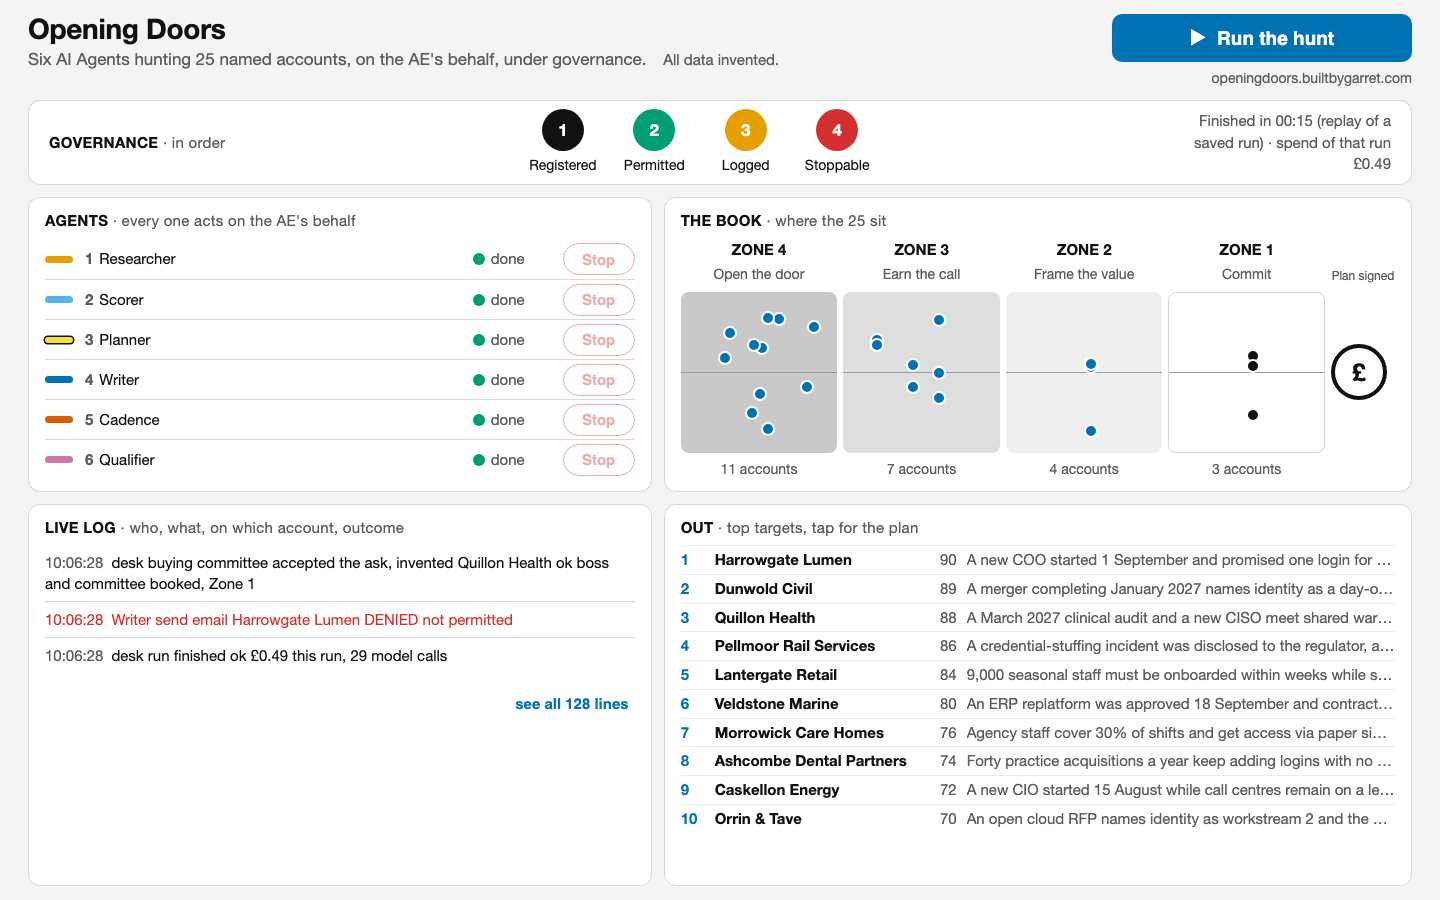
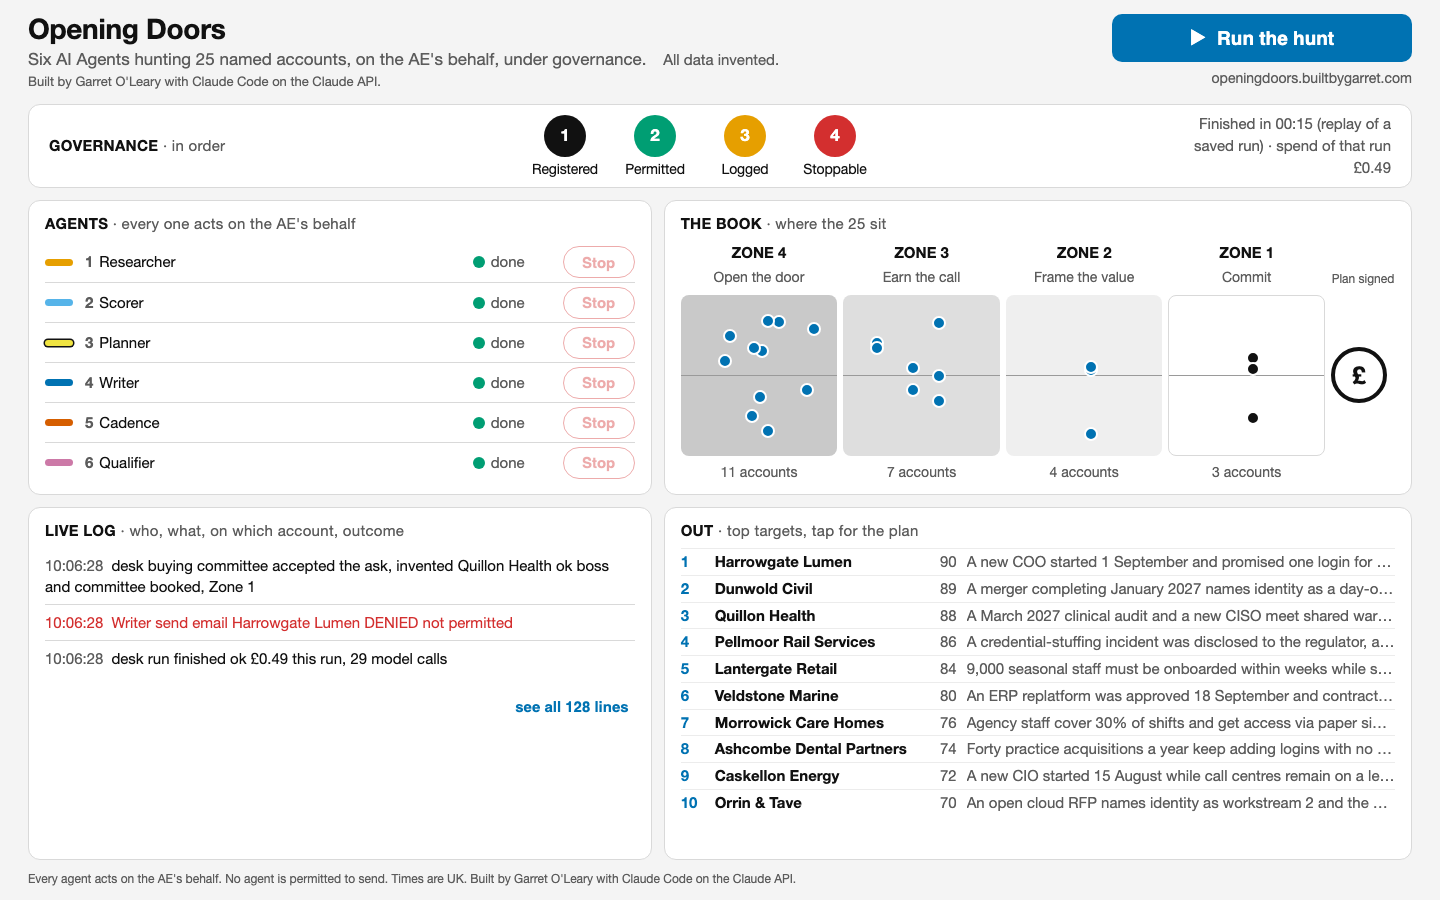
Phone view, governance fits, tiles equal, credit line

diff --git a/web/index.html b/web/index.html
@@ -17,7 +17,8 @@
   main { max-width: 680px; margin: 0 auto; padding: 24px 16px 40px; }
   h1 { font-size: 34px; line-height: 1.1; margin: 0 0 12px; letter-spacing: -0.01em; }
   .desc { margin: 0 0 6px; color: var(--muted); }
-  .notice { margin: 0 0 20px; color: var(--muted); font-size: 15px; }
+  .notice { margin: 0 0 4px; color: var(--muted); font-size: 15px; }
+  .credit { margin: 0 0 20px; color: var(--muted); font-size: 13px; }
   button.run { display: block; width: 100%; min-height: 56px; border: 0; border-radius: 10px; background: var(--blue); color: #fff;
     font: 600 21px/1 Inter, -apple-system, sans-serif; cursor: pointer; }
   button.run:disabled { opacity: .55; cursor: default; }
@@ -25,16 +26,16 @@
   .card { background: var(--card); border: 1px solid var(--line); border-radius: 12px; padding: 16px; margin: 0 0 16px; }
   .card h2 { font-size: 15px; letter-spacing: .02em; margin: 0 0 14px; color: var(--ink); }
   .card h2 span { font-weight: 400; color: var(--muted); }
-  .lights { display: grid; grid-template-columns: repeat(4, 1fr); gap: 8px; }
-  .light { text-align: center; }
-  .light .dot { width: 56px; height: 56px; margin: 0 auto 8px; border-radius: 50%; display: flex; align-items: center; justify-content: center;
-    font-weight: 600; font-size: 19px; color: var(--muted); background: #fff; border: 2px solid var(--line); }
+  .lights { display: grid; grid-template-columns: repeat(4, minmax(0, 1fr)); gap: 6px; }
+  .light { text-align: center; min-width: 0; }
+  .light .dot { width: 46px; height: 46px; margin: 0 auto 6px; border-radius: 50%; display: flex; align-items: center; justify-content: center;
+    font-weight: 600; font-size: 17px; color: var(--muted); background: #fff; border: 2px solid var(--line); }
   .light.on .dot { color: #fff; border-color: transparent; }
   .light.on.black .dot { background: var(--black); }
   .light.on.green .dot { background: var(--green); }
   .light.on.amber .dot { background: var(--amber); }
   .light.on.red .dot { background: var(--red); }
-  .light .label { font-size: 15px; }
+  .light .label { font-size: 13px; line-height: 1.2; white-space: nowrap; overflow: hidden; text-overflow: clip; letter-spacing: -0.01em; }
   .agents { list-style: none; margin: 0; padding: 0; }
   .agents li { display: grid; grid-template-columns: 34px minmax(0, 1fr) 84px 72px; align-items: center; gap: 6px; min-height: 52px; border-top: 1px solid var(--line); }
   .agents li > * { min-width: 0; }
@@ -56,9 +57,9 @@
   .zones { display: grid; grid-template-columns: repeat(4, minmax(0, 1fr)); gap: 6px; }
   .zone { border-radius: 8px; padding: 8px 3px 6px; text-align: center; border: 1px solid var(--line); min-height: 44px; min-width: 0; }
   .zone.z4 { background: #c9c9c9; } .zone.z3 { background: #dedede; } .zone.z2 { background: #efefef; } .zone.z1 { background: #fff; }
-  .zone .zn { font-size: 15px; font-weight: 600; }
+  .zone .zn { font-size: 14px; font-weight: 600; white-space: nowrap; }
   .zone .zc { font-size: 26px; font-weight: 600; line-height: 1.2; margin: 2px 0; font-variant-numeric: tabular-nums; }
-  .zone .zl { font-size: 15px; color: var(--muted); line-height: 1.15; }
+  .zone .zl { font-size: 13px; color: var(--muted); line-height: 1.15; }
   .out { list-style: none; margin: 0; padding: 0; }
   .out li { border-top: 1px solid var(--line); }
   .out li:first-child { border-top: 0; }
@@ -100,21 +101,24 @@
     html, body { height: 100%; }
     body { overflow: hidden; }
     main { max-width: none; height: 100vh; padding: 14px 28px; display: grid; gap: 12px;
-      grid-template-columns: 1fr 1.2fr; grid-template-rows: auto auto auto minmax(0, 1fr);
-      grid-template-areas: "head head" "gov gov" "agents book" "log out"; }
+      grid-template-columns: 1fr 1.2fr; grid-template-rows: auto auto auto minmax(0, 1fr) auto;
+      grid-template-areas: "head head" "gov gov" "agents book" "log out" "foot foot"; }
+    footer { grid-area: foot; display: block; margin: 0; font-size: 12px; line-height: 1.2; }
     .desktop-only { display: block; }
     .head { grid-area: head; display: flex; justify-content: space-between; align-items: flex-start; gap: 24px; }
     .head h1 { font-size: 28px; margin: 0 0 2px; }
     button.run { min-height: 48px; font-size: 19px; }
     .head .desc, .head .notice { margin: 0; display: inline; }
     .head .notice { margin-left: 12px; }
+    .head .credit { margin: 2px 0 0; display: block; }
     .runbox { text-align: right; flex: 0 0 300px; }
     button.run { width: 300px; }
     .runbox .runline { display: none; }          /* on desktop the timer and spend live in the governance strip */
     .address { font-size: 14px; color: var(--muted); margin-top: 6px; }
     .card.gov { grid-area: gov; display: grid; grid-template-columns: 180px 1fr 220px; align-items: center; margin: 0; padding: 8px 20px; }
     .card.gov .light .dot { width: 42px; height: 42px; font-size: 17px; margin-bottom: 4px; }
-    .card.gov .light .label { font-size: 14px; }
+    .card.gov .light .label { font-size: 14px; white-space: nowrap; }
+    .card.gov .lights { gap: 24px; max-width: 560px; margin: 0 auto; }
     .card.gov h2 { margin: 0; }
     .card.gov .lights { gap: 24px; max-width: 760px; margin: 0 auto; }
     .card.gov .stripinfo { text-align: right; font-size: 15px; color: var(--muted); }
@@ -128,7 +132,7 @@
     .card.outcard { grid-area: out; margin: 0; overflow: auto; padding: 12px 16px; }
     .card.outcard h2 { margin-bottom: 6px; }
     .card.outcard #outexpand { display: none; }
-    .card.outcard .target { grid-template-columns: 24px minmax(200px, auto) 32px 1fr; gap: 0 10px; min-height: 0; padding: 4px 0; align-items: baseline; line-height: 1.25; }
+    .card.outcard .target { grid-template-columns: 24px minmax(200px, auto) 32px 1fr; gap: 0 10px; min-height: 0; padding: 3px 0; align-items: baseline; line-height: 1.25; }
     .card.outcard .target .score { display: block; }
     .card.outcard .target .rank { font-size: 15px; }
     .card.outcard .target .tn { font-size: 15px; white-space: nowrap; }
@@ -139,7 +143,6 @@
     .card.logcard { grid-area: log; margin: 0; overflow: auto; padding: 12px 16px; }
     .card.logcard h2 { margin-bottom: 6px; }
     .card.logcard .log li { padding: 7px 0; }
-    footer { display: none; }
     .map { display: grid; grid-template-columns: 1fr 1fr 1fr 1fr 64px; grid-template-rows: auto 1fr auto; flex: 1; min-height: 0; column-gap: 6px; }
     .map .band { border-radius: 8px; position: relative; grid-row: 2; }
     .map .band.z4 { background: #c9c9c9; } .map .band.z3 { background: #dedede; } .map .band.z2 { background: #efefef; } .map .band.z1 { background: #fff; border: 1px solid var(--line); }
@@ -163,6 +166,7 @@
       <h1>Opening Doors</h1>
       <p class="desc">Six AI Agents hunting 25 named accounts, on the AE's behalf, under governance.</p>
       <p class="notice">All data invented.</p>
+      <p class="credit">Built by Garret O'Leary with Claude Code on the Claude API.</p>
     </div>
     <div class="runbox">
       <button class="run" id="run" type="button">&#9654;&nbsp; Run the hunt</button>
@@ -224,7 +228,7 @@
     <button class="expand" id="expand" type="button" hidden>see all</button>
   </section>
 
-  <footer>Every agent acts on the AE's behalf. No agent is permitted to send. Times are UK.</footer>
+  <footer>Every agent acts on the AE's behalf. No agent is permitted to send. Times are UK. Built by Garret O'Leary with Claude Code on the Claude API.</footer>
 </main>
 <script>
 (function () {
